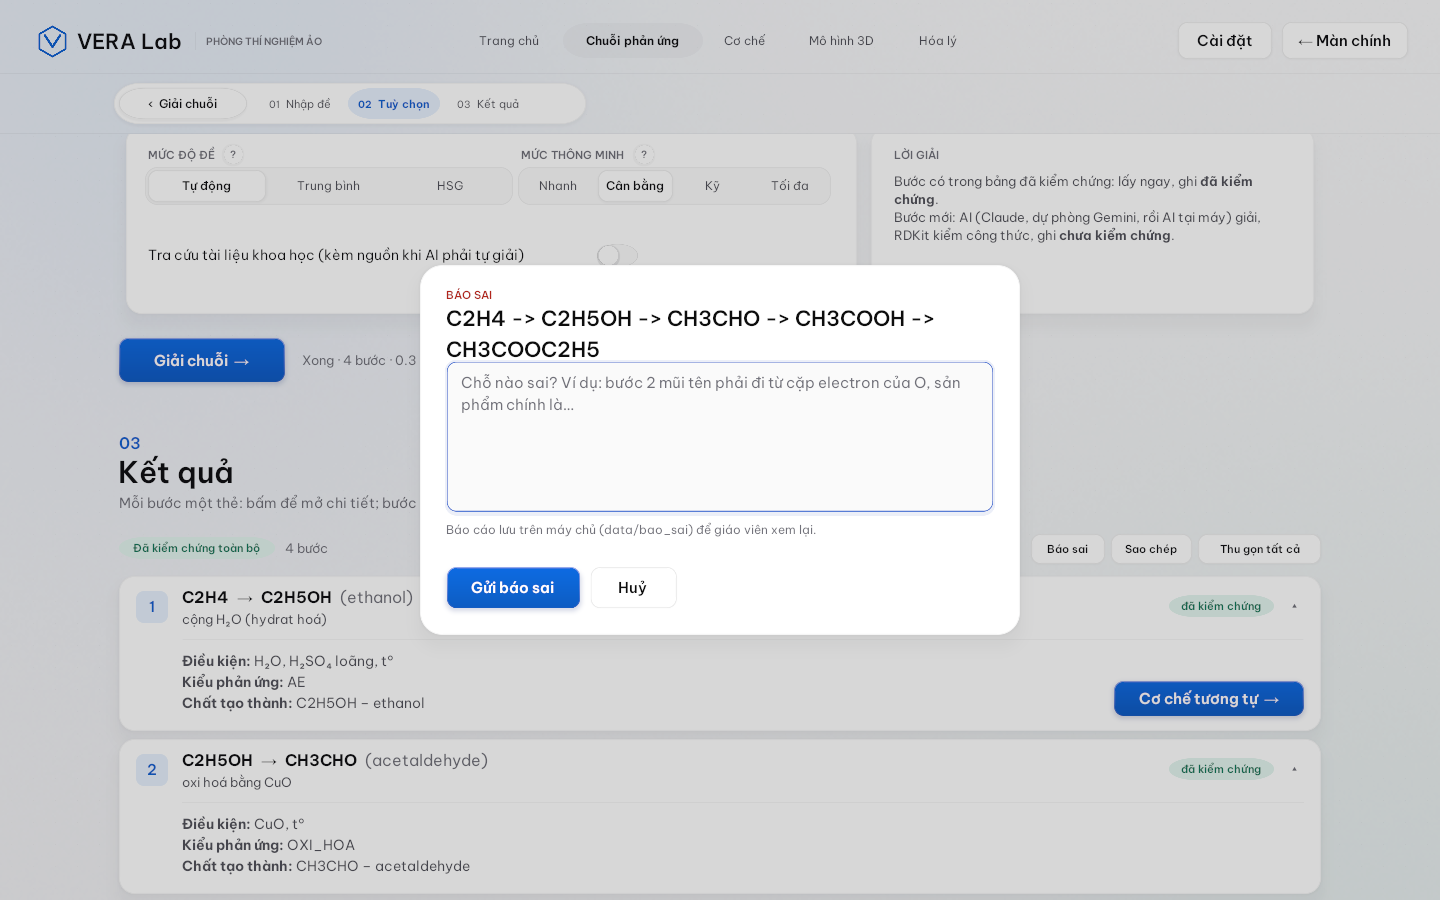
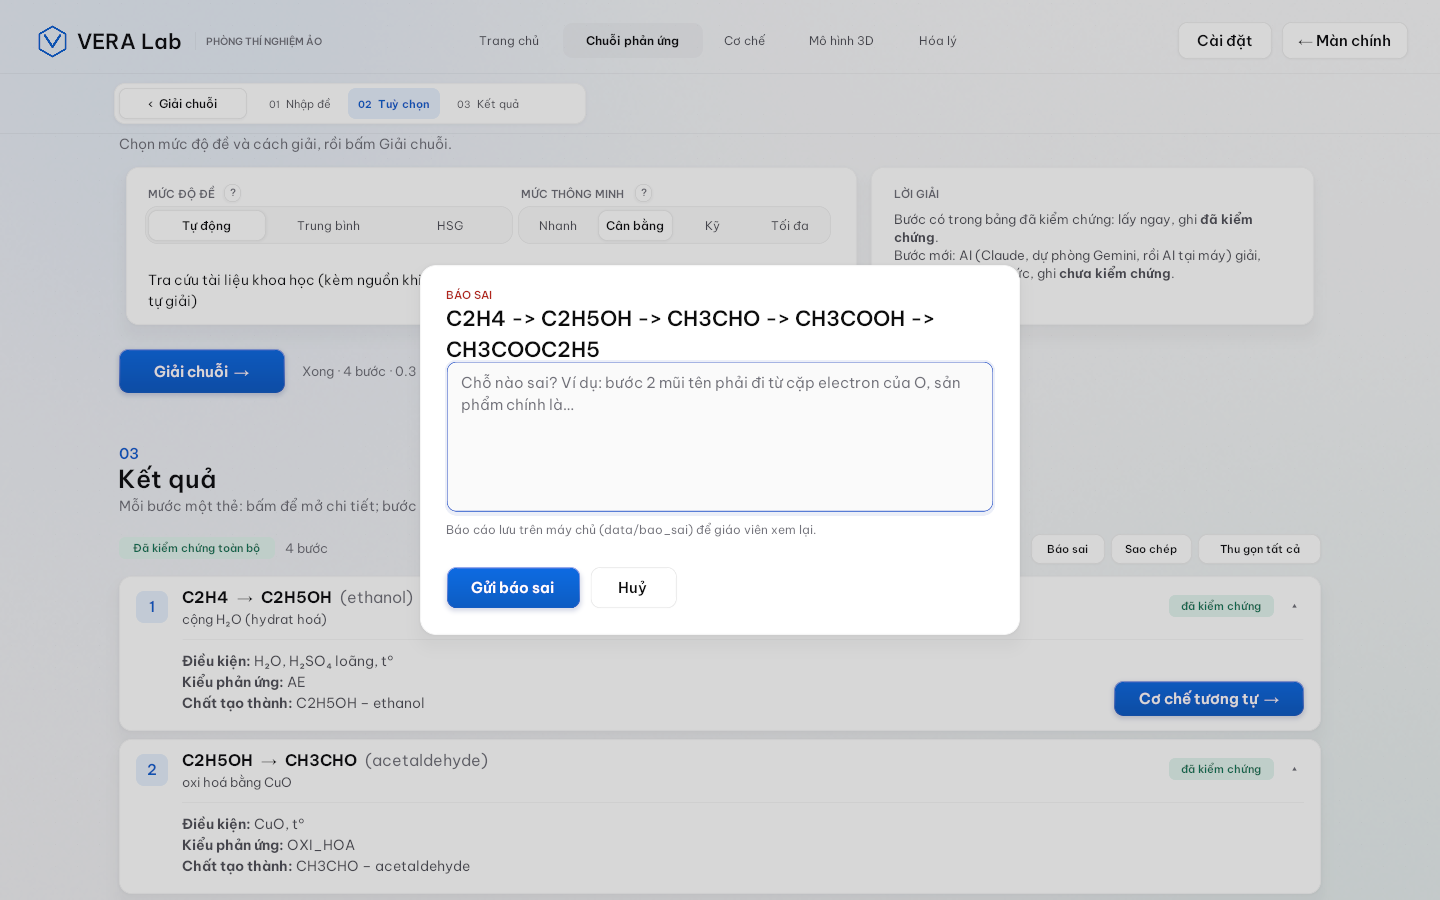
Giải bài tập: bo góc vừa phải (8–20 thay viên thuốc), công tắc gọn, chỉnh tỉ lệ tiêu đề và khu Tuỳ chọn

diff --git a/Phong thi nghiem ao/Assets/Scripts/Menu/GiaiBaiTap/ManGiaiBaiTap.cs b/Phong thi nghiem ao/Assets/Scripts/Menu/GiaiBaiTap/ManGiaiBaiTap.cs
@@ -66,7 +66,7 @@ namespace Khkt.Menu
             var kb = UnityEngine.InputSystem.Keyboard.current;
             if (kb == null || CoCheMoDun.DangMo || MoHinh3DMoDun.DangMo || (baoSai != null && baoSai.DangMo)) return;
             var sel = UnityEngine.EventSystems.EventSystem.current?.currentSelectedGameObject;
-            if (sel != null && sel.GetComponent<InputField>() is InputField f && f.isFocused) return;
+            if (sel != null && sel.GetComponent<InputField>() is InputField f && f.isFocused && f.gameObject.activeInHierarchy) return;
             var phim = new[] { kb.digit1Key, kb.digit2Key, kb.digit3Key, kb.digit4Key, kb.digit5Key };
             for (int i = 0; i < phim.Length; i++) if (phim[i].wasPressedThisFrame) { MoTrang((Trang)i); return; }
             if (kb.escapeKey.wasPressedThisFrame && TrangDang != Trang.Chu) MoTrang(Trang.Chu);
@@ -96,7 +96,7 @@ namespace Khkt.Menu
             {
                 float w = 36 + tenNav[i].Length * 10f;
                 var tr = (Trang)i;
-                var b = MakeButton(goc, "Điều hướng " + tenNav[i], tenNav[i], new Vector2(x, -29), new Vector2(w, 44), () => MoTrang(tr), 2, RadiusPill, new Vector2(0.5f, 1));
+                var b = MakeButton(goc, "Điều hướng " + tenNav[i], tenNav[i], new Vector2(x, -29), new Vector2(w, 44), () => MoTrang(tr), 2, TrangCuon.BoNut, new Vector2(0.5f, 1));
                 ((RectTransform)b.transform).pivot = new Vector2(0, 1);
                 var chu = b.transform.Find("Chữ").GetComponent<Text>();
                 chu.fontSize = 16;
@@ -161,7 +161,7 @@ namespace Khkt.Menu
 
             // thẻ ngang Hóa lý
             var k = t.Khoi("Hàng Hóa lý", 132, 26);
-            var the = Card(k, "Thẻ Hóa lý", 0, 1, 0, 132, 0, true, RadiusCard);
+            var the = Card(k, "Thẻ Hóa lý", 0, 1, 0, 132, 0, true, TrangCuon.BoThe);
             MakeCardClickable(the, () => MoTrang(Trang.HoaLy), 2f);
             var than = Body(the);
             var o = Fill(than, "Biểu tượng", new Vector2(0, 0.5f), new Vector2(0, 0.5f), new Vector2(30, 0), new Vector2(64, 64), AccentSoft, 16f);
@@ -169,7 +169,7 @@ namespace Khkt.Menu
             TrangCuon.NhanNho(than, "Nhãn", "Hóa lý · 4 mô phỏng tương tác", new Vector2(118, -26), 600, Accent);
             GlassKit.Label(than, "Tên", "Hóa lý", 26, Ink, true, TextAnchor.UpperLeft, new Vector2(118, -48), new Vector2(400, 36));
             GlassKit.Label(than, "Mô tả", "Khí lý tưởng · Tốc độ phản ứng · Cân bằng Le Chatelier · Động cơ nhiệt", 16, InkDim, false, TextAnchor.UpperLeft, new Vector2(118, -88), new Vector2(900, 24));
-            var nut = MakeButton(than, "Nút Mở Hóa lý", "Mở Hóa lý  →", new Vector2(-30, 0), new Vector2(170, 48), () => MoTrang(Trang.HoaLy), 0, RadiusPill, new Vector2(1, 0.5f));
+            var nut = MakeButton(than, "Nút Mở Hóa lý", "Mở Hóa lý  →", new Vector2(-30, 0), new Vector2(170, 48), () => MoTrang(Trang.HoaLy), 0, TrangCuon.BoNut, new Vector2(1, 0.5f));
             ((RectTransform)nut.transform).pivot = new Vector2(1, 0.5f);
             t.LanLuot.Add(k);
             t.ChanTrang();
@@ -181,7 +181,7 @@ namespace Khkt.Menu
         static RectTransform TheCongCu(RectTransform hang, int i, string ten, string nhan, string kyHieu, string moTa, string[] chip,
                                        Color dau, Color cuoi, Color chu, Color phu, Action bam)
         {
-            var the = Card(hang, "Công cụ " + ten, i / 3f, (i + 1) / 3f, 0, 300, 24, true, RadiusLarge);
+            var the = Card(hang, "Công cụ " + ten, i / 3f, (i + 1) / 3f, 0, 300, 24, true, TrangCuon.BoTheLon);
             MakeCardClickable(the, bam, 4f);
             var than = Body(the);
             var nen = than.GetComponent<Image>();
@@ -295,8 +295,8 @@ namespace Khkt.Menu
 
             // 02 tuỳ chọn
             t.GhiBuoc(1, t.DauMuc("02", "Tuỳ chọn giải", "Chọn mức độ đề và cách giải, rồi bấm Giải chuỗi."));
-            var khoiTc = t.Khoi("Khối tuỳ chọn", 236, 30);
-            var tc = Card(khoiTc, "Thẻ tuỳ chọn", 0, 0.62f, 0, 236, 18, false, RadiusCard);
+            var khoiTc = t.Khoi("Khối tuỳ chọn", 200, 30);
+            var tc = Card(khoiTc, "Thẻ tuỳ chọn", 0, 0.62f, 0, 200, 18, false, TrangCuon.BoThe);
             var tcThan = Body(tc);
             TrangCuon.NhanNho(tcThan, "Nhãn mức độ", "Mức độ đề", new Vector2(28, -26), 200);
             var gtMucDo = GlassKit.Label(tcThan, "Giải thích mức độ", "Tự động: máy đoán theo chuỗi · Trung bình: lời giải gọn · HSG: thêm điều kiện, sản phẩm phụ.", 13, InkMute, false, TextAnchor.UpperLeft, new Vector2(28, -104), new Vector2(980, 20));
@@ -306,13 +306,13 @@ namespace Khkt.Menu
             var gtTm = GlassKit.Label(tcThan, "Giải thích thông minh", "Mức cao cho AI nghĩ kỹ hơn ở bước chưa có trong bảng (chậm hơn).", 13, InkMute, false, TextAnchor.UpperLeft, new Vector2(28, -104), new Vector2(980, 20));
             TrangCuon.NutHoi(tcThan, "thông minh", new Vector2(644, -22), gtTm);
             Tabs(tcThan, "Mức thông minh", new[] { "Nhanh", "Cân bằng", "Kỹ", "Tối đa" }, new[] { "Nhanh", "Cân bằng", "Kỹ", "Tối đa" }, new Vector2(500, -54), new Vector2(94, 40), false, 4f, 1, i => mucThongMinh = i);
-            Switch(tcThan, "Công tắc tra cứu", "Tra cứu tài liệu khoa học (kèm nguồn khi AI phải tự giải)", new Vector2(28, -140), new Vector2(620, 44), false, b => traCuu = b);
-            var tc2 = Card(khoiTc, "Thẻ lời giải", 0.62f, 1f, 0, 236, 18, false, RadiusCard);
+            TrangCuon.CongTac(tcThan, "Công tắc tra cứu", "Tra cứu tài liệu khoa học (kèm nguồn khi AI phải tự giải)", new Vector2(28, -134), new Vector2(480, 44), false, b => traCuu = b);
+            var tc2 = Card(khoiTc, "Thẻ lời giải", 0.62f, 1f, 0, 200, 18, false, TrangCuon.BoThe);
             var tc2Than = Body(tc2);
             TrangCuon.NhanNho(tc2Than, "Nhãn", "Lời giải", new Vector2(28, -26), 200);
             TrangCuon.ChuRong(tc2Than, "Cách giải",
                 "Bước có trong bảng đã kiểm chứng: lấy ngay, ghi <b>đã kiểm chứng</b>.\nBước mới: AI (Claude, dự phòng Gemini, rồi AI tại máy) giải, RDKit kiểm công thức, ghi <b>chưa kiểm chứng</b>.",
-                15, InkDim, false, 28, -58, 160, 28);
+                15, InkDim, false, 28, -56, 130, 28);
             t.LanLuot.Add(khoiTc);
 
             var khoiNut = t.Khoi("Khối nút giải", 60, 60);
@@ -487,7 +487,7 @@ namespace Khkt.Menu
                 bool mo = moBuocChuoi[i];
                 float h = mo ? 196 : 78;
                 int ii = i;
-                var the = Card(k, "Bước chuỗi " + (i + 1), 0, 1, y, h, 0, true, RadiusCard);
+                var the = Card(k, "Bước chuỗi " + (i + 1), 0, 1, y, h, 0, true, TrangCuon.BoThe);
                 MakeCardClickable(the, () => { moBuocChuoi[ii] = !moBuocChuoi[ii]; VeKetQuaChuoi(D(Doc(kqChuoi))); }, 1.5f);
                 var than = Body(the);
                 string tu = S(b, "tu"), den = S(b, "den");
@@ -638,7 +638,7 @@ namespace Khkt.Menu
                 if (x + w > 1560) { x = 28; y -= 50; }
                 string m = ma;
                 bool d = ma == loaiCoChe;
-                var b = MakeButton(cha, "Loại " + (ma == "" ? "TU_DONG" : ma), ten, new Vector2(x, y), new Vector2(w, 40), () => { loaiCoChe = m; VeChipLoai(cha); }, d ? 0 : 1, RadiusPill);
+                var b = MakeButton(cha, "Loại " + (ma == "" ? "TU_DONG" : ma), ten, new Vector2(x, y), new Vector2(w, 40), () => { loaiCoChe = m; VeChipLoai(cha); }, d ? 0 : 1, TrangCuon.BoNut);
                 var chu = b.transform.Find("Chữ").GetComponent<Text>();
                 chu.fontSize = 15;
                 if (!d) { chu.color = InkDim; chu.fontStyle = FontStyle.Normal; }
@@ -899,7 +899,7 @@ namespace Khkt.Menu
             {
                 string ma = ds[i, 0];
                 var k = t.Khoi("Khối " + ds[i, 1], 120, 16);
-                var the = Card(k, "Hóa lý " + ds[i, 1], 0, 1, 0, 120, 0, true, RadiusCard);
+                var the = Card(k, "Hóa lý " + ds[i, 1], 0, 1, 0, 120, 0, true, TrangCuon.BoThe);
                 MakeCardClickable(the, () => MoHoaLy?.Invoke(ma), 2f);
                 var th = Body(the);
                 var o = Fill(th, "Biểu tượng", new Vector2(0, 0.5f), new Vector2(0, 0.5f), new Vector2(30, 0), new Vector2(60, 60), AccentSoft, 16f);
@@ -907,7 +907,7 @@ namespace Khkt.Menu
                 TrangCuon.NhanNho(th, "Số", $"Mô phỏng {i + 1:00}", new Vector2(116, -24), 300, Accent);
                 GlassKit.Label(th, "Tên", ds[i, 1], 24, Ink, true, TextAnchor.UpperLeft, new Vector2(116, -44), new Vector2(700, 34));
                 GlassKit.Label(th, "Mô tả", ds[i, 2], 16, InkDim, false, TextAnchor.UpperLeft, new Vector2(116, -80), new Vector2(900, 24));
-                var nut = MakeButton(th, "Nút Mở " + ds[i, 1], "Mở mô phỏng  →", new Vector2(-30, 0), new Vector2(190, 48), () => MoHoaLy?.Invoke(ma), 0, RadiusPill, new Vector2(1, 0.5f));
+                var nut = MakeButton(th, "Nút Mở " + ds[i, 1], "Mở mô phỏng  →", new Vector2(-30, 0), new Vector2(190, 48), () => MoHoaLy?.Invoke(ma), 0, TrangCuon.BoNut, new Vector2(1, 0.5f));
                 ((RectTransform)nut.transform).pivot = new Vector2(1, 0.5f);
                 t.LanLuot.Add(k);
             }
@@ -940,7 +940,7 @@ namespace Khkt.Menu
             mo.color = GlassKit.Scrim(UiTheme.IsLight ? 0.32f : 0.55f);
             mo.raycastTarget = true;
             h.khung = GlassKit.Rect(g, "Khung", new Vector2(0.5f, 0.5f), new Vector2(0.5f, 0.5f), Vector2.zero, new Vector2(760, 470));
-            var the = Card(h.khung, "Thẻ báo sai", 0, 1, 0, 470, 0, false, RadiusLarge);
+            var the = Card(h.khung, "Thẻ báo sai", 0, 1, 0, 470, 0, false, TrangCuon.BoTheLon);
             var th = Body(the);
             th.GetComponent<Image>().raycastTarget = true;
             Eyebrow(th, "Nhãn", "Báo sai", new Vector2(34, -30), 300, Error);

diff --git a/Phong thi nghiem ao/Assets/Scripts/Menu/GiaiBaiTap/KhungTrangGbt.cs b/Phong thi nghiem ao/Assets/Scripts/Menu/GiaiBaiTap/KhungTrangGbt.cs
@@ -20,6 +20,8 @@ namespace Khkt.Menu
     {
         public const float Le = 150f;          // lề trái/phải nội dung (đơn vị canvas 1920 rộng)
         public const float DinhThanhPhu = 76f;  // chiều cao thanh phụ dính
+        // bo góc vừa phải (19/11, góp ý: không dùng dạng viên thuốc): đơn vị canvas 1920 rộng ≈ ×0,75 ở màn 1440
+        public const float BoNho = 8f, BoNut = 12f, BoThe = 16f, BoTheLon = 20f;
 
         public RectTransform Goc, NoiDung;
         public ScrollRect Cuon;
@@ -81,17 +83,17 @@ namespace Khkt.Menu
             foreach (var b in cacBuoc) rongBuoc += 40 + b.Length * 9.5f + 22;
             float rong = 32 + ten.Length * 10f + 60 + rongBuoc + 10;
             var vien = GlassKit.Rect(thanh, "Viên", new Vector2(0, 0.5f), new Vector2(0, 0.5f), new Vector2(Le - 6, 0), new Vector2(rong, 52));
-            Shadow(vien, "Bóng", 6f, RadiusPill, -1f, UiTheme.IsLight ? 0.06f : 0.3f);
-            Paint(Full(vien, "Mặt"), Paper, RadiusPill);
-            Ring(vien, "Viền", Hair, RadiusPill);
-            var ve = MakeButton(vien, "Nút quay lại " + ten, "‹  " + ten, new Vector2(6, -6), new Vector2(32 + ten.Length * 10f + 30, 40), () => quayLai?.Invoke(), 1, RadiusPill);
+            Shadow(vien, "Bóng", 6f, 14f, -1f, UiTheme.IsLight ? 0.06f : 0.3f);
+            Paint(Full(vien, "Mặt"), Paper, 14f);
+            Ring(vien, "Viền", Hair, 14f);
+            var ve = MakeButton(vien, "Nút quay lại " + ten, "‹  " + ten, new Vector2(6, -6), new Vector2(32 + ten.Length * 10f + 30, 40), () => quayLai?.Invoke(), 1, 10f);
             ve.transform.Find("Chữ").GetComponent<Text>().fontSize = 16;
             float x = 6 + 32 + ten.Length * 10f + 30 + 14;
             for (int i = 0; i < cacBuoc.Length; i++)
             {
                 float w = 40 + cacBuoc[i].Length * 9.5f;
                 int ii = i;
-                var nut = MakeButton(vien, "Bước ngang " + (i + 1), "", new Vector2(x, -6), new Vector2(w, 40), () => CuonToi(buoc[ii].y), 2, RadiusPill);
+                var nut = MakeButton(vien, "Bước ngang " + (i + 1), "", new Vector2(x, -6), new Vector2(w, 40), () => CuonToi(buoc[ii].y), 2, 10f);
                 var chu = nut.transform.Find("Chữ").GetComponent<Text>();
                 chu.supportRichText = true;
                 chu.fontSize = 15;
@@ -148,12 +150,12 @@ namespace Khkt.Menu
         /// <summary>Đầu trang công cụ: nhãn nhỏ, tiêu đề rất lớn, mô tả.</summary>
         public void DauTrang(string nhan, string tieuDe, string moTa)
         {
-            var k = Khoi("Đầu trang", 196, 30);
+            var k = Khoi("Đầu trang", 178, 34);
             NhanNho(k, "Nhãn trang", nhan, Vector2.zero, 900);
-            var td = GlassKit.Label(k, "Tiêu đề", tieuDe, 64, Ink, true, TextAnchor.UpperLeft, new Vector2(-3, -26), new Vector2(1500, 84));
+            var td = GlassKit.Label(k, "Tiêu đề", tieuDe, 54, Ink, true, TextAnchor.UpperLeft, new Vector2(-2, -28), new Vector2(1500, 72));
             td.horizontalOverflow = HorizontalWrapMode.Overflow;
             TextShadow(td, UiTheme.IsLight ? 0.05f : 0.4f, 2f);
-            ChuRong(k, "Mô tả", moTa, 19, InkDim, false, 0, -120, 70, 300);
+            ChuRong(k, "Mô tả", moTa, 18, InkDim, false, 0, -108, 66, 360);
             LanLuot.Add(k);
         }
 
@@ -161,11 +163,11 @@ namespace Khkt.Menu
         public float DauMuc(string so, string tieuDe, string phu)
         {
             float y = Y;
-            var k = Khoi("Mục " + so, 104, 18);
-            GlassKit.Label(k, "Số mục", so, 19, Accent, true, TextAnchor.UpperLeft, Vector2.zero, new Vector2(80, 26));
-            var td = GlassKit.Label(k, "Tên mục", tieuDe, 38, Ink, true, TextAnchor.UpperLeft, new Vector2(-1, -26), new Vector2(1200, 50));
+            var k = Khoi("Mục " + so, 92, 16);
+            GlassKit.Label(k, "Số mục", so, 17, Accent, true, TextAnchor.UpperLeft, Vector2.zero, new Vector2(80, 24));
+            var td = GlassKit.Label(k, "Tên mục", tieuDe, 32, Ink, true, TextAnchor.UpperLeft, new Vector2(-1, -24), new Vector2(1200, 44));
             td.horizontalOverflow = HorizontalWrapMode.Overflow;
-            GlassKit.Label(k, "Phụ mục", phu, 16, InkMute, false, TextAnchor.UpperLeft, new Vector2(0, -78), new Vector2(1400, 24)).horizontalOverflow = HorizontalWrapMode.Overflow;
+            GlassKit.Label(k, "Phụ mục", phu, 16, InkMute, false, TextAnchor.UpperLeft, new Vector2(0, -68), new Vector2(1400, 24)).horizontalOverflow = HorizontalWrapMode.Overflow;
             LanLuot.Add(k);
             return y;
         }
@@ -173,7 +175,7 @@ namespace Khkt.Menu
         /// <summary>Thẻ trắng hết bề ngang khối, không nhấc khi rê chuột.</summary>
         public static RectTransform The(RectTransform khoi, string ten, float y = 0, float h = -0.001f)
         {
-            var the = h > 0 ? Card(khoi, ten, 0, 1, y, h, 0, false, RadiusCard) : Card(khoi, ten, 0, 1, y, -0f, 0, false, RadiusCard);
+            var the = h > 0 ? Card(khoi, ten, 0, 1, y, h, 0, false, BoThe) : Card(khoi, ten, 0, 1, y, -0f, 0, false, BoThe);
             if (h <= 0) { the.offsetMin = new Vector2(0, 0); the.offsetMax = new Vector2(0, y); }
             Body(the).GetComponent<Image>().raycastTarget = true;
             return Body(the);
@@ -201,7 +203,7 @@ namespace Khkt.Menu
             for (int i = 0; i < n; i++)
             {
                 int ii = i;
-                var the = Card(khoi, "Tab " + ten[i], i / (float)n, (i + 1) / (float)n, 0, 116, 18, true, RadiusCard);
+                var the = Card(khoi, "Tab " + ten[i], i / (float)n, (i + 1) / (float)n, 0, 116, 18, true, BoThe);
                 MakeCardClickable(the, () => nhom.Chon(ii, true), 2f);
                 var than = Body(the);
                 var o = Fill(than, "Biểu tượng", new Vector2(0, 1), new Vector2(0, 1), new Vector2(22, -16), new Vector2(34, 34), Well, 9f);
@@ -265,7 +267,7 @@ namespace Khkt.Menu
         public static Button Chip(Transform cha, string ten, string chu, Vector2 pos, Action bam, int coChu = 14)
         {
             float w = Mathf.Min(560, 30 + chu.Length * coChu * 0.56f);
-            var b = MakeButton(cha, ten, chu, pos, new Vector2(w, 36), bam, 1, RadiusPill);
+            var b = MakeButton(cha, ten, chu, pos, new Vector2(w, 36), bam, 1, BoNut);
             var t = b.transform.Find("Chữ").GetComponent<Text>();
             t.fontSize = coChu; t.color = InkDim; t.fontStyle = FontStyle.Normal;
             return b;
@@ -290,19 +292,37 @@ namespace Khkt.Menu
         {
             float w = 26 + chu.Length * 8.2f;
             var rt = GlassKit.Rect(cha, ten, new Vector2(0, 1), new Vector2(0, 1), pos, new Vector2(w, 28));
-            Paint(Full(rt, "Mặt"), nen, RadiusPill);
+            Paint(Full(rt, "Mặt"), nen, BoNho);
             var t = GlassKit.Label(rt, "Chữ", chu, 13, mauChu, true, TextAnchor.MiddleCenter, Vector2.zero, new Vector2(w, 28));
             t.horizontalOverflow = HorizontalWrapMode.Overflow;
             return rt;
         }
 
+        /// <summary>Công tắc gọn (rãnh 42×24 bo 12, núm 18) thay cho công tắc viên nang lớn của MenuKit.</summary>
+        public static Toggle CongTac(Transform cha, string ten, string nhan, Vector2 pos, Vector2 co, bool batDau, Action<bool> doi)
+        {
+            var t = Switch(cha, ten, nhan, pos, co, batDau, doi);
+            var sw = t.GetComponent<MenuSwitch>();
+            var ranh = sw.track.rectTransform;
+            ranh.sizeDelta = new Vector2(42, 24);
+            sw.track.sprite = Round(12f);
+            if (sw.trackRing != null) sw.trackRing.sprite = RingSprite(12f);
+            sw.knob.sizeDelta = new Vector2(18, 18);
+            foreach (var img in sw.knob.GetComponentsInChildren<Image>(true))
+                img.sprite = img.name == "Bóng" ? ShadowSprite(3f, 9f) : Round(9f);
+            sw.travel = 9f;
+            var lbl = t.transform.Find("Nhãn") as RectTransform;
+            if (lbl != null) lbl.sizeDelta = new Vector2(co.x - 60, lbl.sizeDelta.y);
+            return t;
+        }
+
         /// <summary>Nút "?" nhỏ: bấm thì hiện/ẩn dòng giải thích ngay dưới nhãn.</summary>
         public static void NutHoi(Transform cha, string ten, Vector2 pos, Text giaiThich)
         {
-            var b = MakeButton(cha, "Nút ? " + ten, "?", pos, new Vector2(24, 24), () =>
+            var b = MakeButton(cha, "Nút ? " + ten, "?", pos, new Vector2(22, 22), () =>
             {
                 giaiThich.gameObject.SetActive(!giaiThich.gameObject.activeSelf);
-            }, 1, RadiusPill);
+            }, 1, BoNut);
             var t = b.transform.Find("Chữ").GetComponent<Text>();
             t.fontSize = 13; t.color = InkMute;
             giaiThich.gameObject.SetActive(false);

diff --git a/Phong thi nghiem ao/Assets/Scripts/Menu/Dashboard/MenuKit.cs b/Phong thi nghiem ao/Assets/Scripts/Menu/Dashboard/MenuKit.cs
@@ -1053,6 +1053,7 @@ namespace Khkt.Menu.Dashboard
         public Toggle toggle;
         public Image track, trackRing, knobFace;
         public RectTransform knob;
+        public float travel = 11f;              // núm chạy ±travel quanh giữa rãnh
         float k = -1f, v;
 
         void Update()
@@ -1074,7 +1075,7 @@ namespace Khkt.Menu.Dashboard
                 }
             }
             float c = Mathf.Clamp01(k);
-            knob.anchoredPosition = new Vector2(Mathf.LerpUnclamped(-11f, 11f, k), 0f);
+            knob.anchoredPosition = new Vector2(Mathf.LerpUnclamped(-travel, travel, k), 0f);
             track.color = Color.Lerp(MenuKit.Well, MenuKit.Accent, c);
             trackRing.color = Color.Lerp(MenuKit.HairStrong, MenuKit.WithAlpha(MenuKit.Accent, 0f), c);
             knobFace.color = Color.Lerp(UiTheme.IsLight ? Color.white : MenuKit.Hex(0xd4d4d8), Color.white, c);

diff --git a/Phong thi nghiem ao/Assets/Scripts/CoChe/CoCheMoDun.cs b/Phong thi nghiem ao/Assets/Scripts/CoChe/CoCheMoDun.cs
@@ -898,7 +898,7 @@ namespace Khkt.CoChe
             // phím tắt (khi không gõ chữ): V = Xem 3D ⇄ bảng giấy, F = phóng to ⇄ thu nhỏ khung 3D
             var kb = Keyboard.current;
             var sel = EventSystem.current != null ? EventSystem.current.currentSelectedGameObject : null;
-            bool dangGo = sel != null && sel.GetComponent<InputField>() is InputField f && f.isFocused;
+            bool dangGo = sel != null && sel.GetComponent<InputField>() is InputField f && f.isFocused && f.gameObject.activeInHierarchy;
             if (kb != null && !dangGo && !DangChuyen && (hopBaoSai == null || !hopBaoSai.DangMo))
             {
                 if (kb.vKey.wasPressedThisFrame) DatCheDo(!CheDoGiay);

diff --git a/docs/ngay-19-11/bao-cao-giai-bai-tap.md b/docs/ngay-19-11/bao-cao-giai-bai-tap.md
@@ -121,3 +121,18 @@ Kiểm tra:
 
 Còn lại: ở bước "chất mới tham gia", khung nhìn ôm cả chất sắp bay vào nên lúc đầu phân tử đang có lệch về một phía
 (đúng chỗ dành cho chất bay tới, nhưng có thể cần chỉnh nếu thấy khó nhìn).
+
+## 7. Bổ sung tối 19/11: bo góc vừa phải, công tắc gọn, chỉnh tỉ lệ
+
+Góp ý: bo tròn quá (công tắc viên thuốc, mục bước nền tròn) nhìn xấu; bo vừa thôi và chỉnh tỉ lệ bố cục.
+- Bán kính riêng cho nhánh Giải bài tập (`TrangCuon.BoNho/BoNut/BoThe/BoTheLon` = 8/12/16/20 đơn vị canvas 1920 rộng,
+  ≈ 6/9/12/15 px ở màn 1440): nút, chip, mục điều hướng, chip loại cơ chế = 12; mục bước ngang và nút quay lại = 10;
+  thanh phụ = 14; thẻ = 16; thẻ công cụ lớn và hộp Báo sai = 20; huy hiệu = 8. Không còn dạng viên thuốc tròn hẳn.
+- Công tắc gọn `TrangCuon.CongTac`: rãnh 42×24 bo 12, núm 18 (trước 52×30 và 24), núm chạy ±9; MenuSwitch thêm `travel`
+  (mặc định 11 như cũ, các màn khác không đổi).
+- Tỉ lệ: tiêu đề trang 64 → 54, tiêu đề mục 38 → 32, đầu trang/mục thấp lại; thẻ Tuỳ chọn 236 → 200, công tắc sát nhãn;
+  nút `?` 22.
+- Phím 1–5 / V / F chỉ bị chặn khi ô nhập ĐANG HIỆN có con trỏ (trước đó ô đăng nhập đã ẩn vẫn có thể chặn phím).
+- Kiểm tra: KhktUiVerify 66/66; ảnh `sau_*.png` cập nhật; app Mac xuất lại, trang chủ Giải bài tập thật:
+  `app_mac_trang_chu_bo_vua.png`. Gửi phím bằng System Events vào app lần này không ổn định (lúc nhận, lúc không), nên
+  các trang trong app thật chưa chụp lại được; ảnh các trang lấy từ KhktUiVerify (cùng mã).
